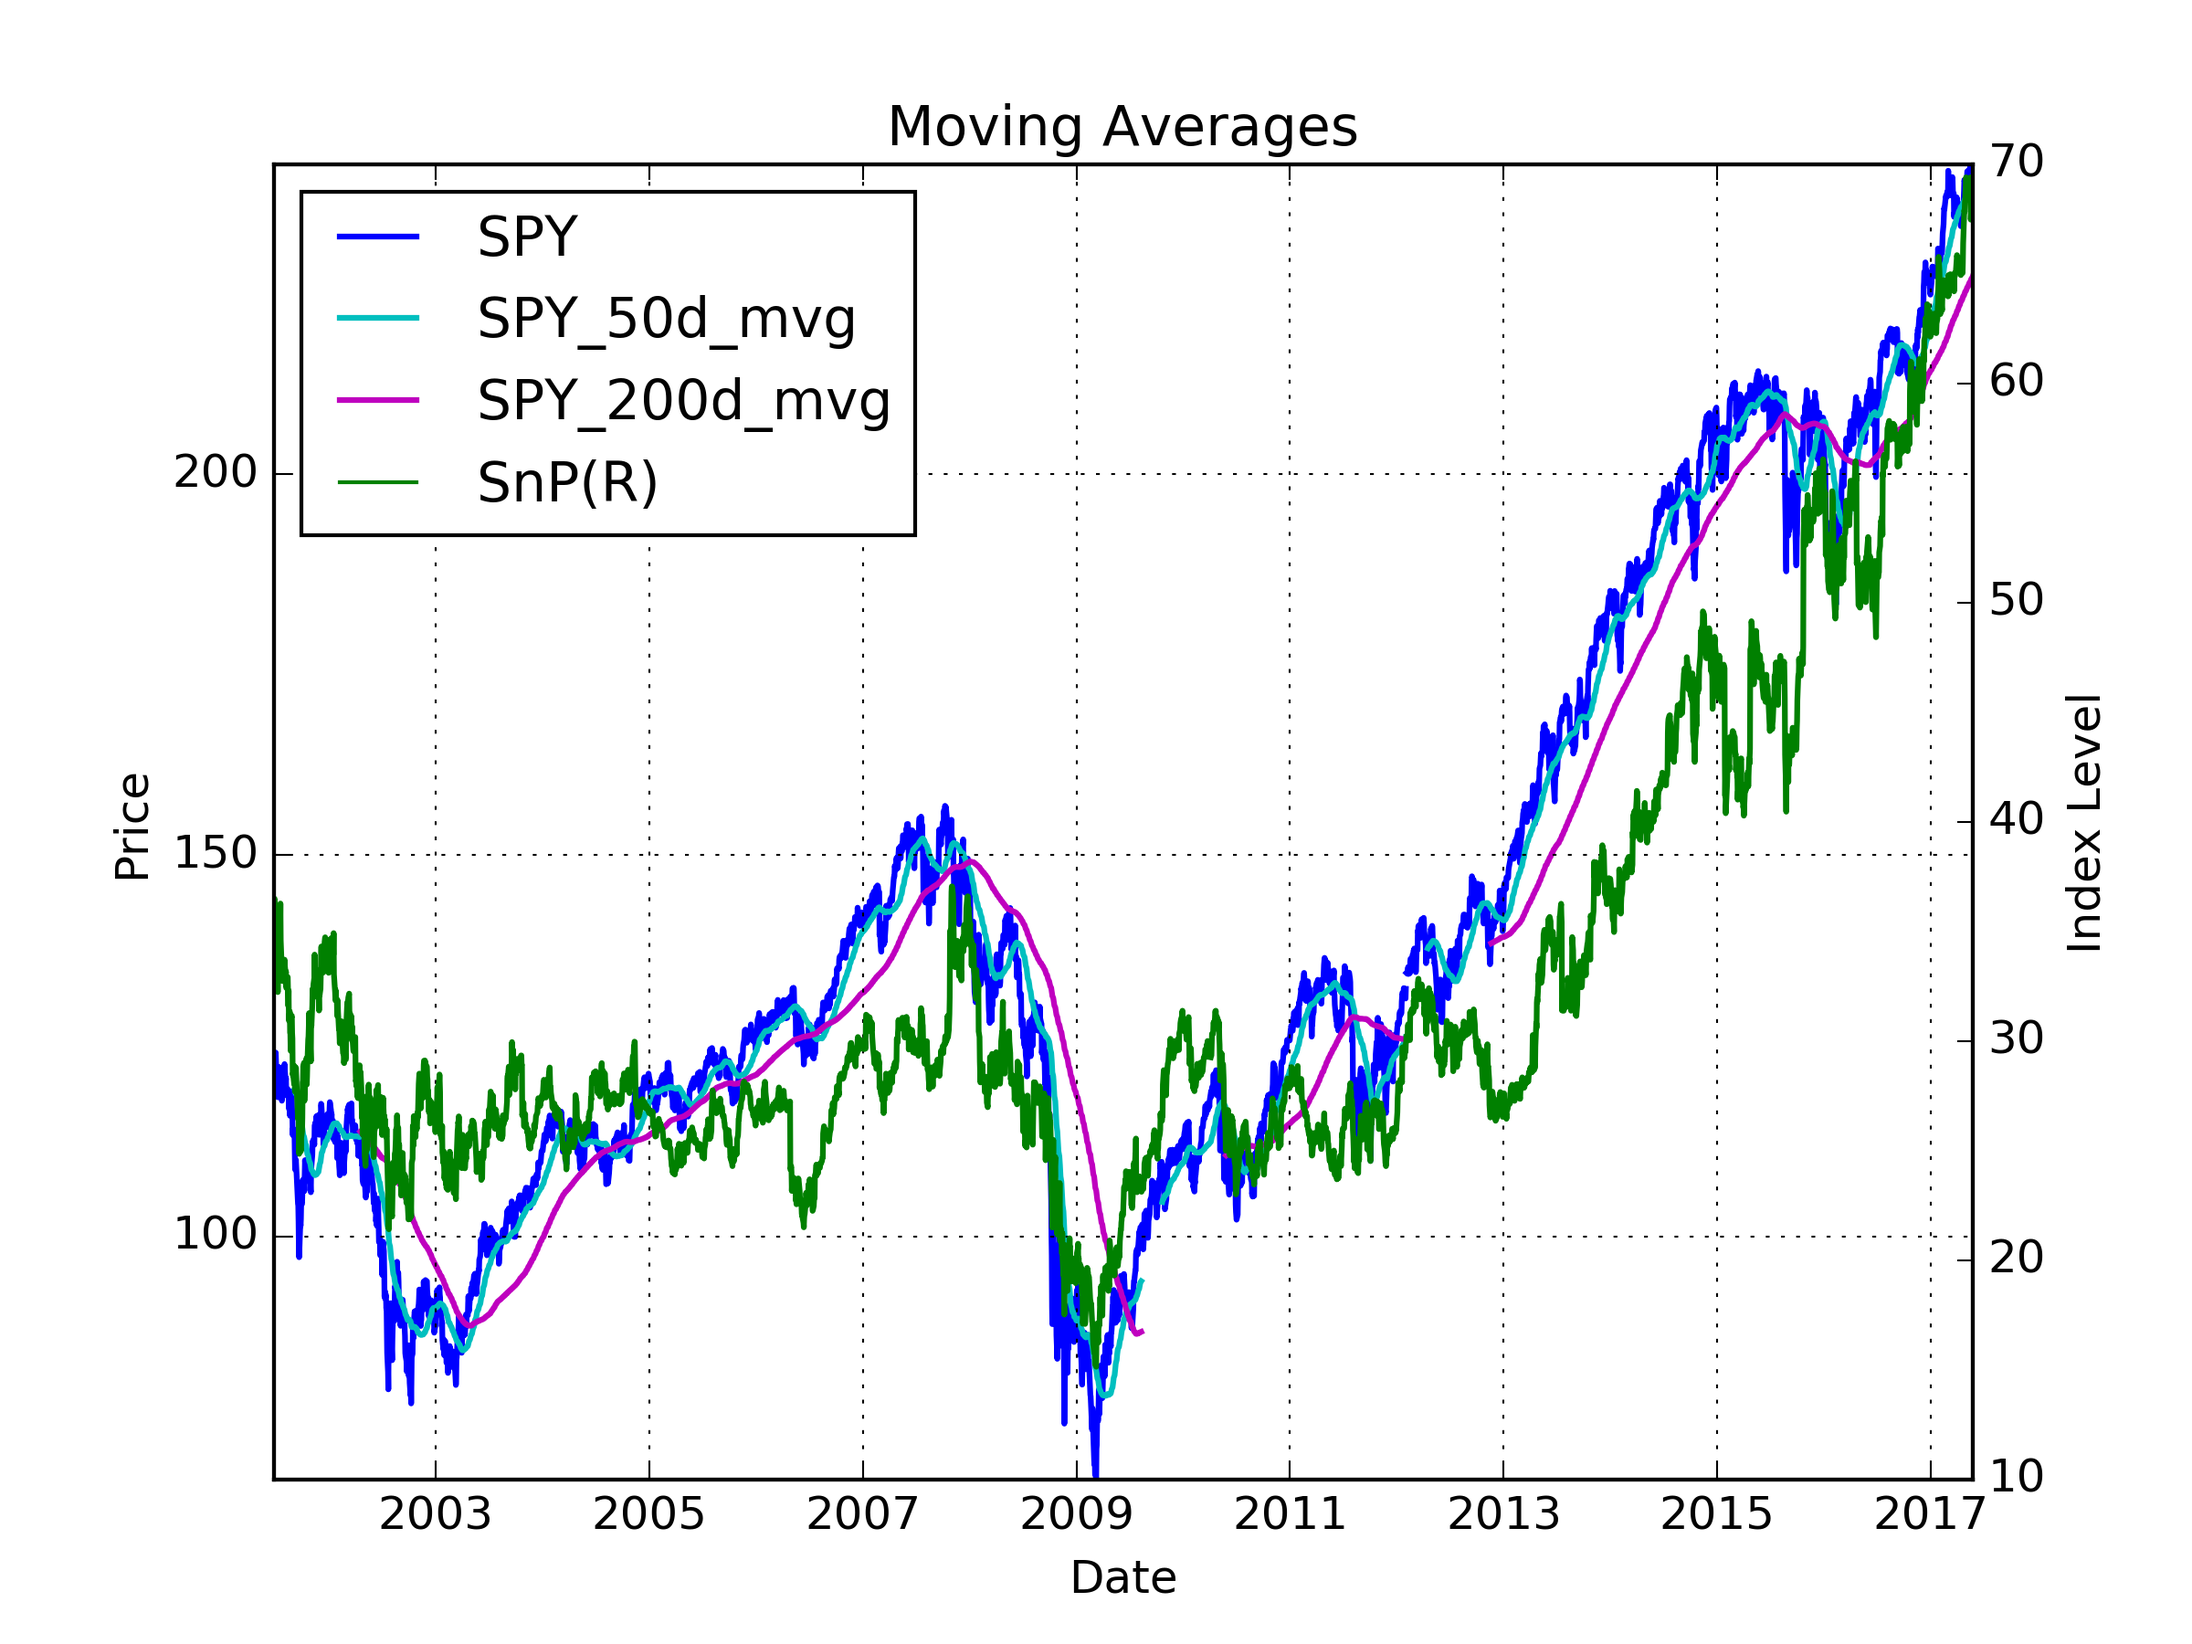
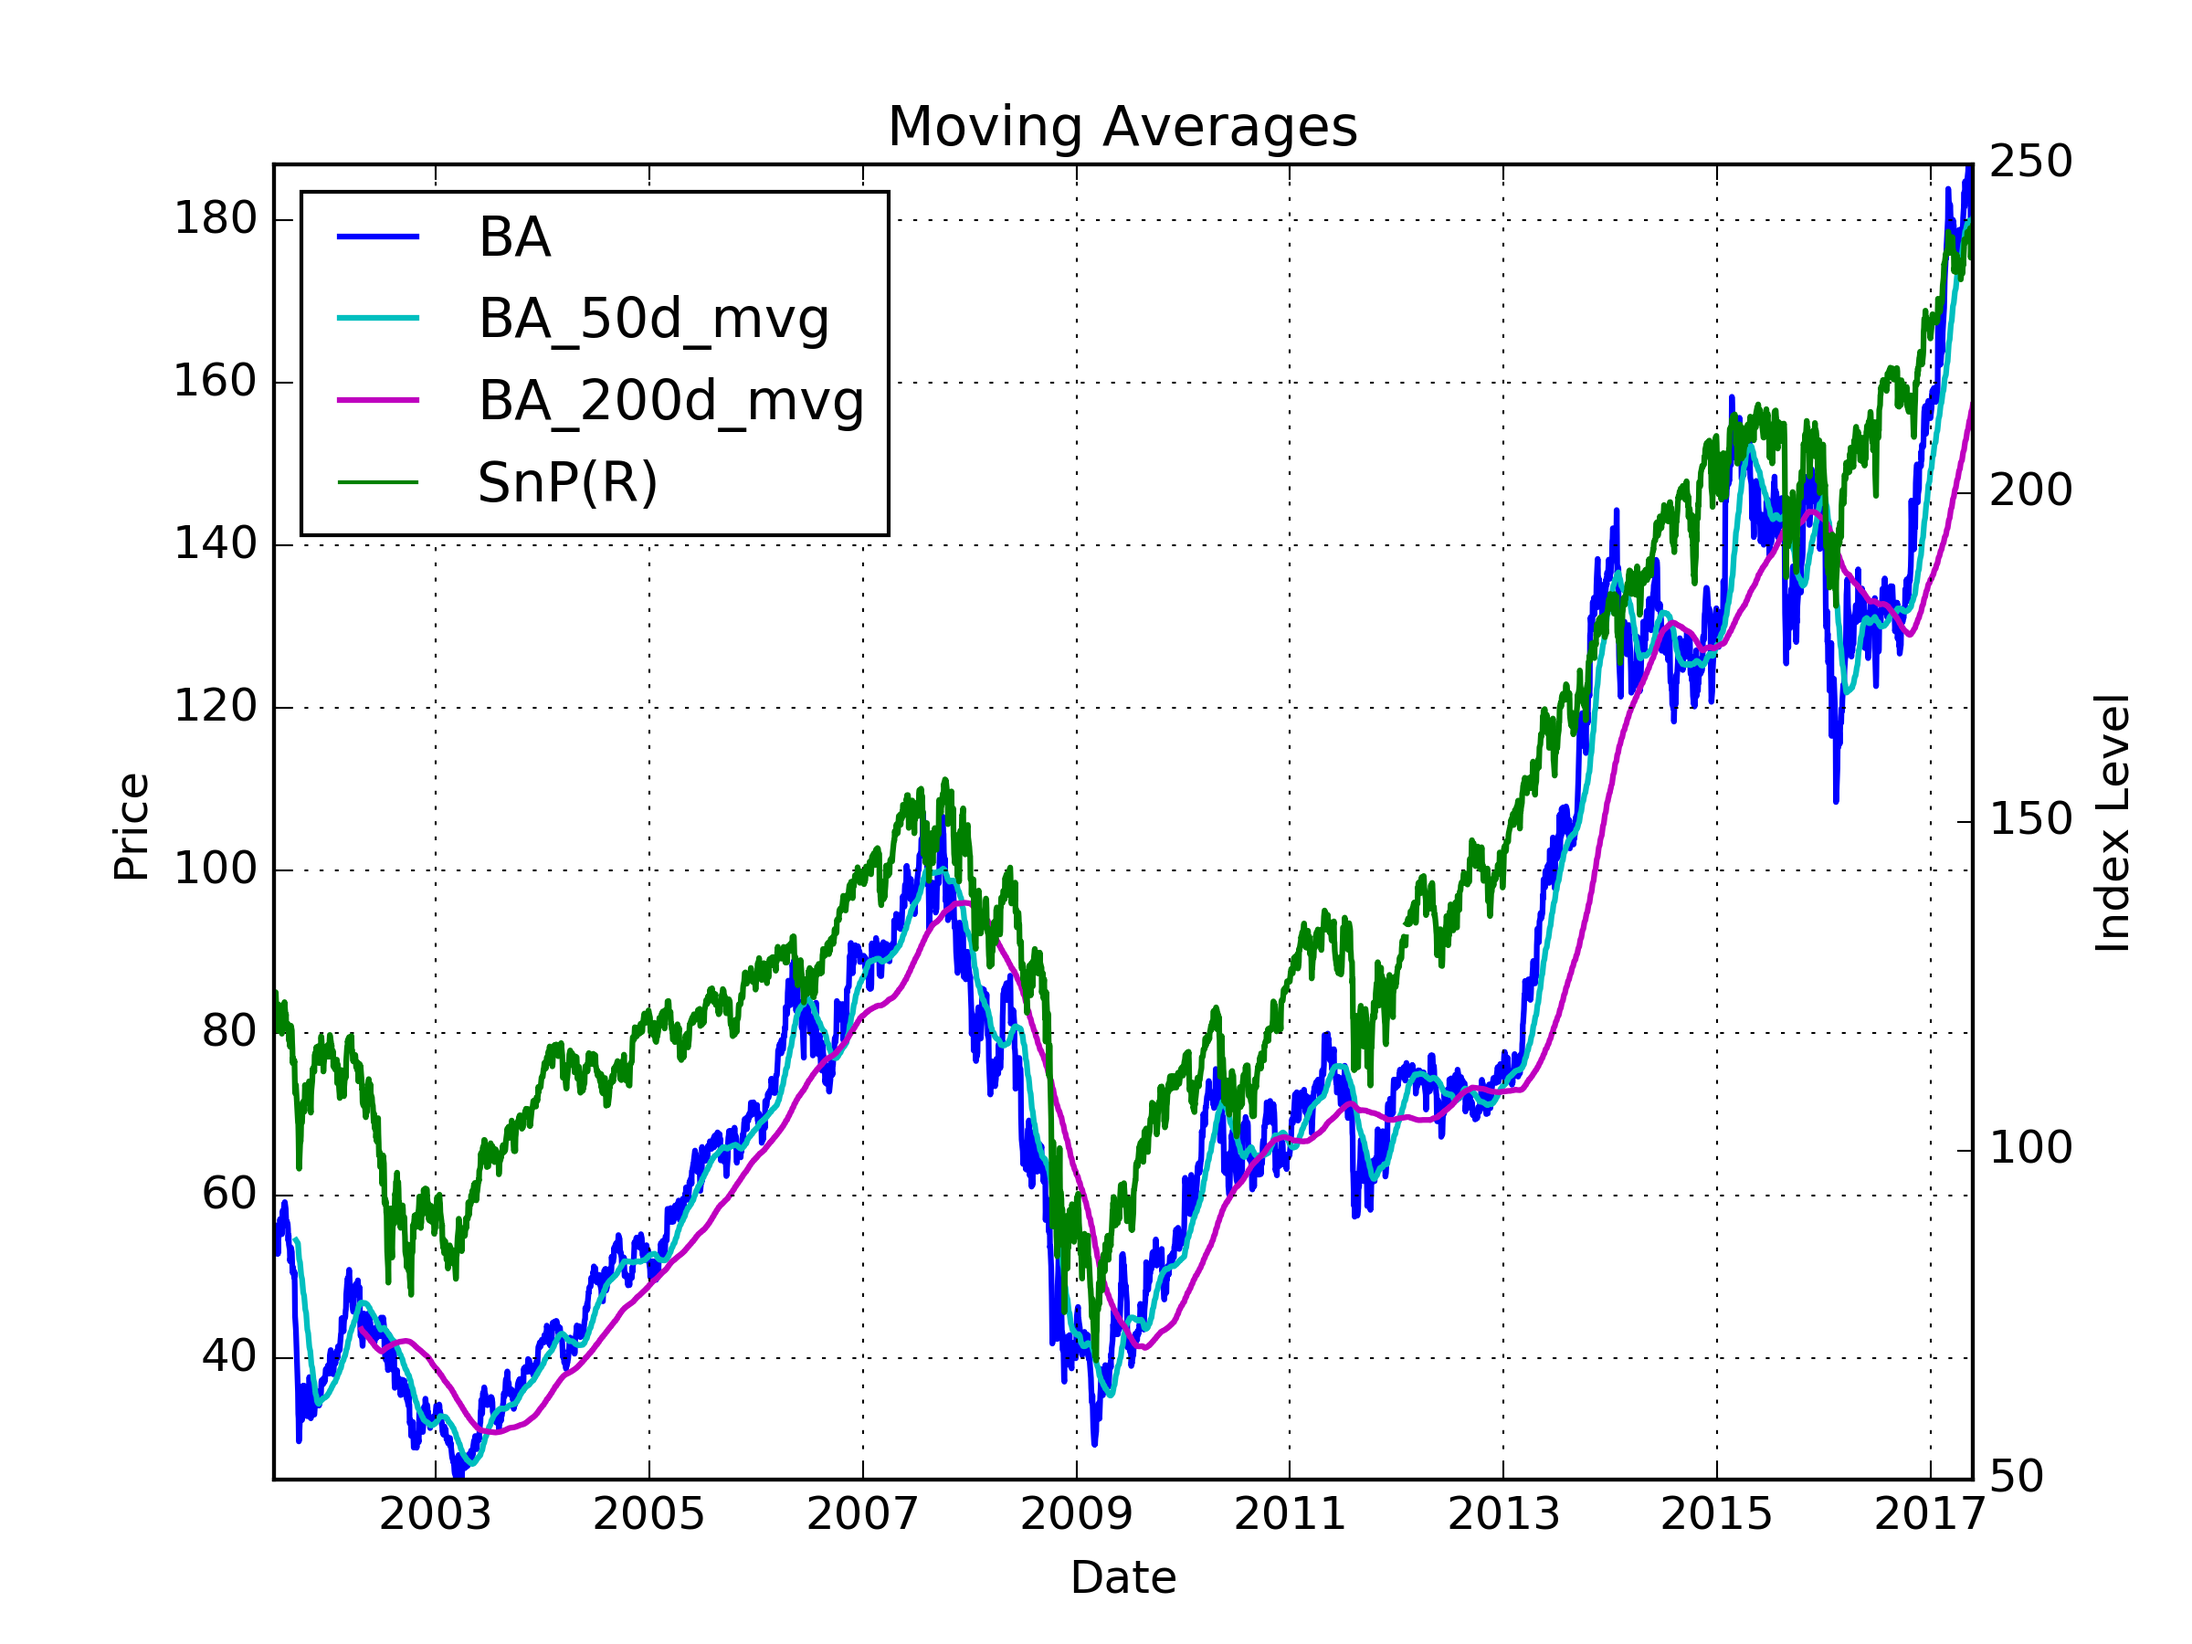
imgs loading as anticipated

diff --git a/app/templates/equity_analysis.html b/app/templates/equity_analysis.html
@@ -9,53 +9,53 @@
     
     <div class="container-fluid">
         <h1 class="text-primary text-center">Equity Analysis</h1>
-        <div id=input_div>
-            <div class="row">
-                <div class="col-xs-3">
-                    <label class="eqanal">Status: </label>
+        <div id='grid' class="row">
+            <div id=input_div class="col-xs-3">
+                <div class="row">
+                    <div class="col-xs-3">
+                        <label class="eqanal">Status: </label>
+                    </div>
+                    <div class="col-xs-3">
+                        <label id="eqanal_status" class="eqanal">Ready </label>
+                    </div>
                 </div>
-                <div class="col-xs-3">
-                    <label id="eqanal_status" class="eqanal">Ready </label>
+                <div class="row">
+                    <div class="col-xs-3">
+                        <label class="eqanal">Ticker:</label>
+                    </div>
+                    <div class="col-xs-3">
+                        <input id="eqanal_ticker" type="text" class='opt_fields' required id='ticker' value=""/>
+                    </div>
                 </div>
-            </div>
-            <div class="row">
-                <div class="col-xs-3">
-                    <label class="eqanal">Ticker:</label>
+                <div class="row">
+                    <div class="col-xs-3">
+                        <label class="eqanal">Chart Set:</label>
+                    </div>
+                    <div class="col-xs-3">
+                        <select id="eqanal_charts" class='opt_fields' required id='chart' value="">
+                            <option value="CP1">Chart Pack 1</option>
+                            <option value="CP2">Chart Pack 2</option>
+                        </select>
+                    </div>
                 </div>
-                <div class="col-xs-3">
-                    <input id="eqanal_ticker" type="text" class='opt_fields' required id='ticker' value=""/>
+                <div class="row">
+                    <div class="col-xs-3">
+                        <label class="eqanal">Date:</label>
+                    </div>
+                    <div class="col-xs-3">
+                        <input id="eqanal_date" type="date" class='opt_fields' required id='ticker' value=""/>
+                    </div>
                 </div>
-            </div>
-            <div class="row">
-                <div class="col-xs-3">
-                    <label class="eqanal">Chart Set:</label>
-                </div>
-                <div class="col-xs-3">
-                    <select id="eqanal_charts" class='opt_fields' required id='chart' value="">
-                        <option value="CP1">Chart Pack 1</option>
-                        <option value="CP2">Chart Pack 2</option>
-                    </select>
-                </div>
-            </div>
-            <div class="row">
-                <div class="col-xs-3">
-                    <label class="eqanal">Date:</label>
-                </div>
-                <div class="col-xs-3">
-                    <input id="eqanal_date" type="date" class='opt_fields' required id='ticker' value=""/>
-                </div>
-            </div>
-            <div class="row">
-                <div class="col-xs-4">
-                    <button id="get_data_btn" class='eqanal btn btn-primary' onclick="eqanal_get_data(event, '{{ SECRET_KEY }}');">Get Data  <i class='fa fa-calculator'></i></button>
-                </div>
-                <div class="col-xs-4">
-                    <button id="eqanal_charts_btn" class='eqanal btn btn-info' onclick="eqanal_gen_charts(event, '{{ SECRET_KEY }}');">Generate Charts  <i class='fa fa-area-chart'></i></button>
+                <div class="row">
+                    <div class="col-xs-4">
+                        <button id="get_data_btn" class='eqanal btn btn-primary' onclick="eqanal_get_data(event, '{{ SECRET_KEY }}');">Get Data  <i class='fa fa-calculator'></i></button>
+                    </div>
+                    <div class="col-xs-4">
+                        <button id="eqanal_charts_btn" class='eqanal btn btn-info' onclick="eqanal_gen_charts(event, '{{ SECRET_KEY }}');">Generate Charts  <i class='fa fa-area-chart'></i></button>
+                    </div>
                 </div>
             </div>
         </div>
-        <img class='eqanal_img img-responsive'>
-        <img class='eqanal_img img-responsive'>
     </div>
 
 {% endblock %}

diff --git a/app/templates/base.html b/app/templates/base.html
@@ -10,21 +10,6 @@
     <link href="/static/css/bootstrap-responsive.min.css" rel="stylesheet">
     <script src="http://code.jquery.com/jquery-latest.js"></script>
     <script src="/static/js/bootstrap.min.js"></script>
-    <script src="/static/js/moment.min.js"></script>
-    <script src="/static/js/jqwidgets/jqxcore.js"></script>
-    <script src="/static/js/jqwidgets/jqxdata.js"></script>
-    <script src="/static/js/jqwidgets/jqxgrid.js"></script>
-    <script src="/static/js/jqwidgets/jqxscrollbar.js"></script>
-    <script src="/static/js/jqwidgets/jqxmenu.js"></script>
-    <script src="/static/js/jqwidgets/jqxlistbox.js"></script>
-    <script src="/static/js/jqwidgets/jqxdropdownlist.js"></script>
-    <script src="/static/js/jqwidgets/jqxlistbox.js"></script>
-    <script src="/static/js/jqwidgets/jqxbuttons.js"></script>
-    <script src="/static/js/jqwidgets/jqxgrid.sort.js"></script>
-    <script src="/static/js/jqwidgets/jqxgrid.filter.js"></script>
-    <script src="/static/js/jqwidgets/jqxgrid.pager.js"></script>
-    <script src="/static/js/jqwidgets/jqxgrid.selection.js"></script>
-    <script src="/static/js/jqwidgets/jqxgrid.columnsresize.js"></script>
     <meta name="viewport" content="width=device-width, initial-scale=1.0">
   </head>
   <body>

diff --git a/app/static/js/equity_analysis.js b/app/static/js/equity_analysis.js
@@ -76,14 +76,19 @@ function eqanal_gen_charts(event, token) {
 
 function addImgs(pngs) {
     // currently adds a src to an IMG, should add a full img at some point
-    $('img.eqanal_img').each(function(index,item){
-        if (index >= pngs.length) {
-            return "Success";
-        } else {
-            $(item).attr("src",pngs[index]);
-        }
-    });
-    return
+    for (var i=0; i < pngs.length; i++) {
+        $('div#grid').append('<img class="cols-xs-3 eqanal_img" src=' + pngs[i] + ' />')
+    }
+    return "Success";
+    
+    // $('img.eqanal_img').each(function(index,item){
+    //     if (index >= pngs.length) {
+    //         return "Success";
+    //     } else {
+    //         $(item).attr("src",pngs[index]);
+    //     }
+    // });
+    // return
 }
     
 

diff --git a/app/static/css/equity_analysis.css b/app/static/css/equity_analysis.css
@@ -30,6 +30,12 @@ button.eqanal {
     width : 350px;
 }
 
+img.eqanal_img {
+    width : 300px;
+    height : 270px;
+    margin : 3px;
+}
+
 .opt_fields {
     margin : 3px;
     width : 150px;

diff --git a/app/equity/analysis_eqs/chartpacks.py b/app/equity/analysis_eqs/chartpacks.py
@@ -115,7 +115,7 @@ def price_ratios(ts, ms_df, tickers, date=datetime.date.today().strftime('%Y-%m-
     ts = ts.ix[3].reset_index()
     ax2.plot(ts[ts['Date'] > start_date][ts.columns[0]], ts[ts['Date'] > start_date][ts.columns[1]], mpl_utils.COLORS[col_ct], lw=1.5, label="MSFT(R)")
     # to add it to the legend
-    ax1.plot(0,0, mpl_utils.COLORS[col_ct], label="MSFT(R)")
+    ax1.plot(0,0, mpl_utils.COLORS[col_ct], label=tickers[0]+"(R)")
     ax1.legend(loc=0)
     ax2.set_ylabel('Index Level')
     plt.title('Price Ratios - ' + tickers[0])
